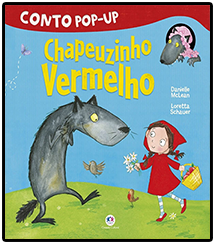
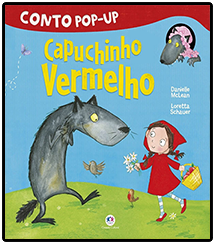
Adaptar português das capas dos livros + Ícones das páginas

Changed region(s): [[0.2512, 0.1429, 0.7256, 0.2857]]

diff --git a/home.html b/home.html
@@ -14,7 +14,9 @@
     <!-- Ficheiros CSS Exclusivos Páginas -->
     <link rel="stylesheet" type="text/css" href="./css/home.css" media="screen" />
 
-    <title>Menu Livros</title>
+    <title>Menu Principal</title>
+
+    <link rel="icon" href="img/icone-menu.png">
 </head>
 
 <body>

diff --git a/projeto/livro_2/livro_2.html b/projeto/livro_2/livro_2.html
@@ -17,6 +17,8 @@
     <link rel="stylesheet" type="text/css" href="../livro_2/css/main.css" media="screen" />
 
     <title>O Capuchinho Vermelho</title>
+
+    <link rel="icon" href="../../img/capuchinho-vermelho-capa.png">
 </head>
 <body>
   <div class="row mx-2 mt-3">

diff --git a/projeto/livro_3/livro_3.html b/projeto/livro_3/livro_3.html
@@ -17,6 +17,8 @@
     <link rel="stylesheet" type="text/css" href="../livro_3/css/main.css" media="screen" />
 
     <title>Os Três Porquinhos</title>
+
+    <link rel="icon" href="../../img/os-tres-porquinhos-capa.png">
 </head>
 <body>
   <div class="row mx-2 mt-3">

diff --git a/projeto/livro_1/livro1.html b/projeto/livro_1/livro1.html
@@ -17,6 +17,8 @@
     <link rel="stylesheet" type="text/css" href="../livro_1/css/main.css" media="screen" />
 
     <title>O Gato das Botas</title>
+
+    <link rel="icon" href="../../img/gato-das-botas-capa.png">
 </head>
 <body>
   <div class="row mx-2 mt-3">
